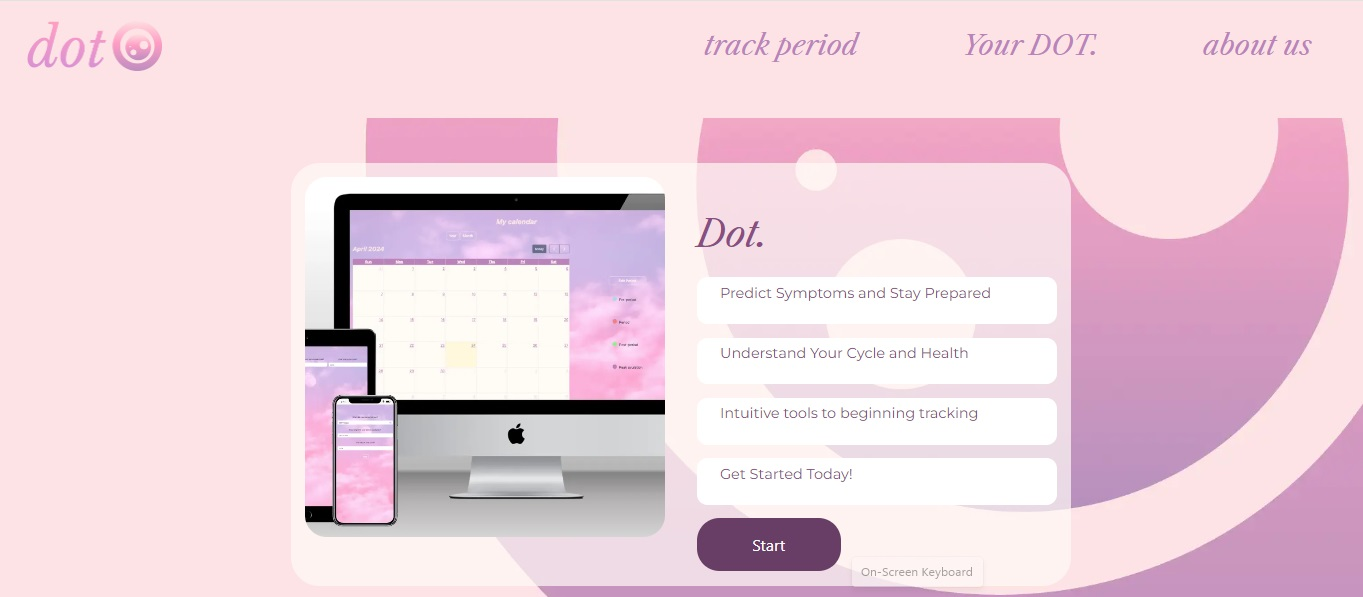
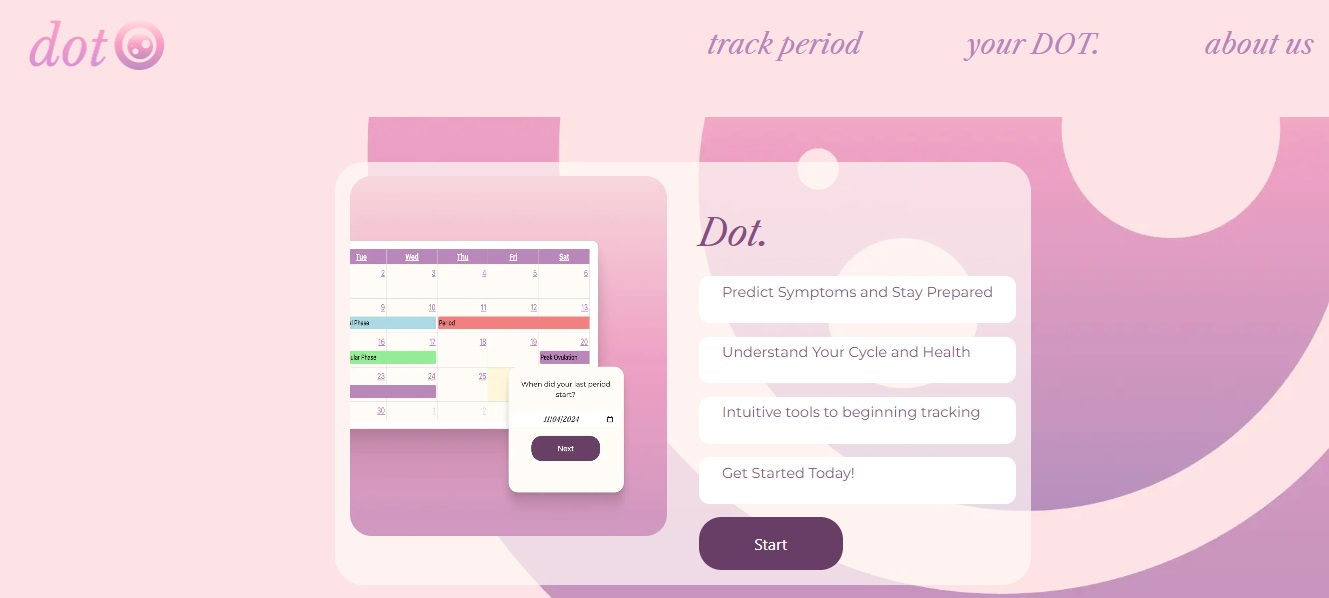
features in readme

diff --git a/README.md b/README.md
@@ -24,16 +24,42 @@ Our app, 'Dot.' created for the CodeInstitute Women's Wellness hybrid hackathon
 ## Design
 
 - Colour Palette 
-![Colour Palette](docs\dot_color_palette.png)
-![Text Choices, the font Libre Calson font](docs\font-choices-1.png)
-![Font Choices, the font Monsterrat](docs\font-choices-2.png)
+![Colour Palette](docs/dot_color_palette.png)
+![Text Choices, the font Libre Calson font](docs/font-choices-1.png)
+![Font Choices, the font Monsterrat](docs/font-choices-2.png)
 ###  Wireframes
-![Home page wireframe](docs\dothome.png)
-![About us wireframe](docs\dotaboutus.png)
-![Calender Wireframe](docs\dotcalender.png)
-![Form wireframe](docs\dotquiz.png)
+![Home page wireframe](docs/dothome.png)
+![About us wireframe](docs/dotaboutus.png)
+![Calender Wireframe](docs/dotcalender.png)
+![Form wireframe](docs/dotquiz.png)
 
 ### Features
+- Landing page
+![Landing Page](docs/Landing_page.jpg)
+
+On landing page there's an informative box where information are found why is good to track the menstrual cycle, what you expect to get once you start using the webpage and the START button which will take the user to the form page to insert data.
+
+- Form page and input fields
+![Form page](docs/form_page.png)
+![Name Input](docs/name.jpg)
+![Period Start Date](docs/period_start_date.jpg)
+![Period Length](docs/period_length.jpg)
+![Cycle length](docs/cycle_length.jpg)
+
+The Form page will populate some input fields, one at the time requesting the name of the user, the date the period starts, how long the period lasts and how long the cycle is. These data will then be stored in LOCAL STORAGE as an array object so it can be used for feuture implementations.
+
+- Calendar page
+![Calendar page](docs/calendar_page.jpg)
+![Calendar page with info](docs/calendar_with_info.jpg)
+
+In the calendar page the user can see their mesrtual cycle with some information regarding each phase. When the links on the site are clicked the information regarding that phase are shown.
+
+- About Us
+![About us](docs/about_us_page.jpg)
+
+The team who build the webpage with links in GitHUb and LinkIn.
+
+
 
 
 ### Future Features
